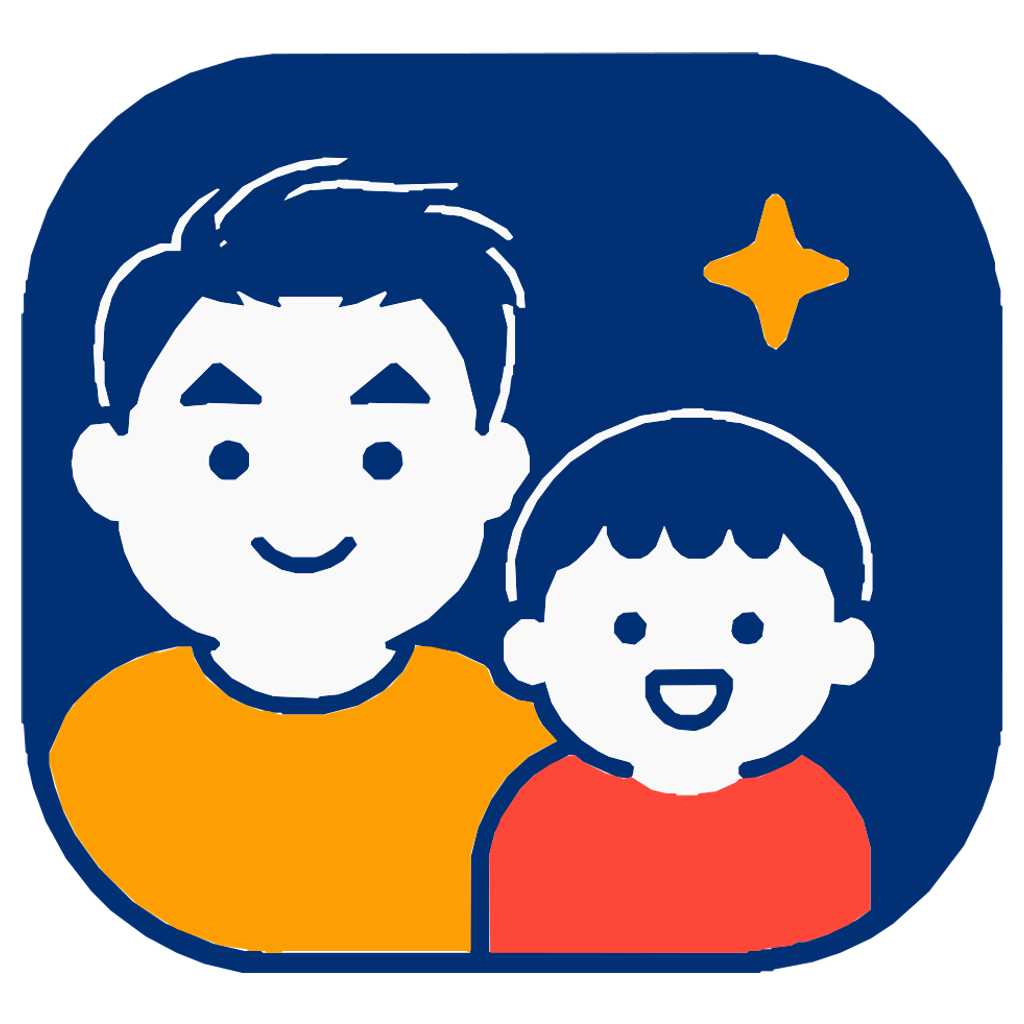
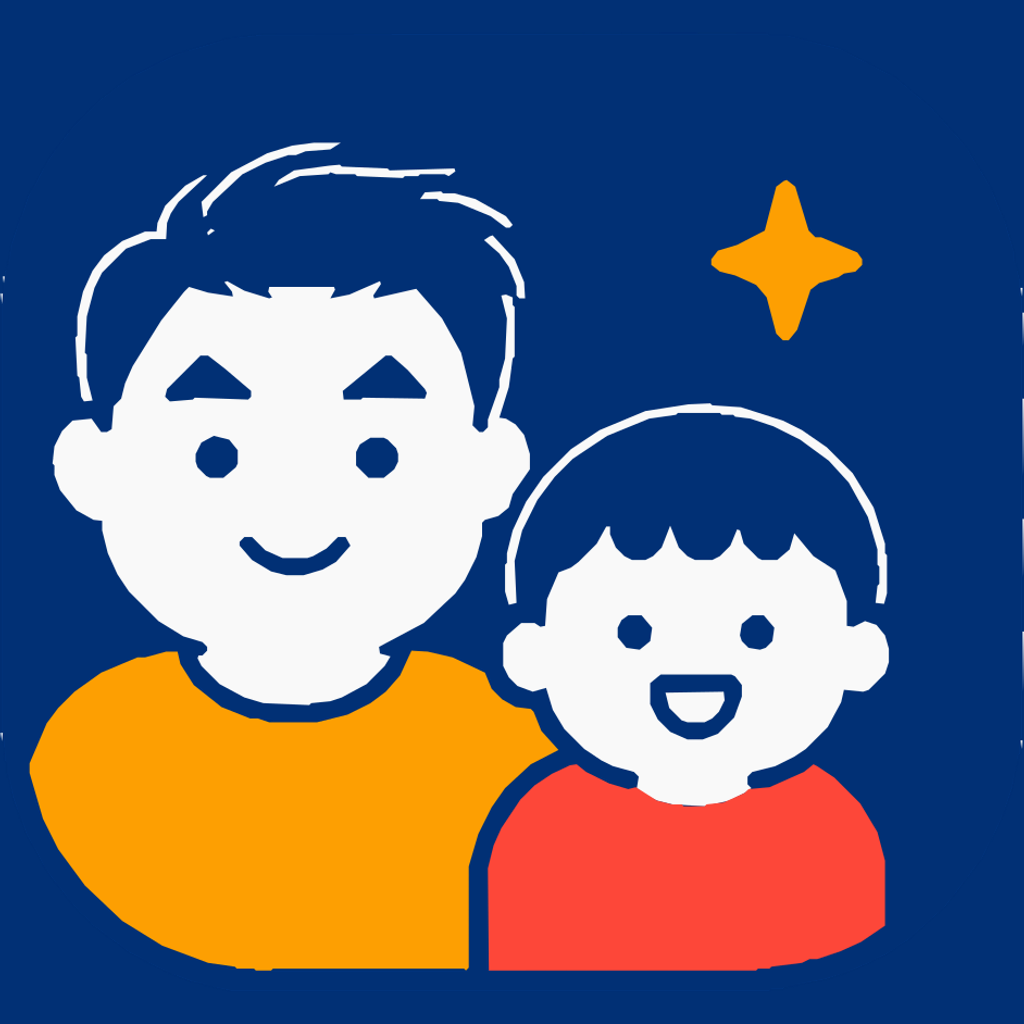
홈 화면 아이콘의 흰 테두리를 없애고 채널 소개 문구를 바꿈
- 아이콘 배경이 흰색이라 휴대폰 홈 화면에 추가하면 아이콘 바깥으로
  흰 테두리가 남았다. iOS·안드로이드가 정사각형을 둥글게 깎으면서
  모서리의 흰 배경이 그대로 보이던 것이다.
  배경을 심벌 타일과 같은 네이비(#013075)로 맞춰 하나로 이어지게 했다.
- 브라우저 탭·북마크에 쓰이는 파비콘은 OS가 깎아주지 않으므로
  직접 모서리를 둥글게 만들었다.
- 채널 소개를 블로그의 실제 성격에 맞게 바꿨다.
  학습 자료 안내가 아니라 웨티와의 일상 기록이다.

diff --git a/config/channels.ts b/config/channels.ts
@@ -13,7 +13,7 @@ export interface WetiChannel {
   id: string;
   /** 채널명 (예: 웨티아빠 네이버 블로그) */
   name: string;
-  /** 방문 이유를 설명하는 한 문장 */
+  /** 이 채널이 어떤 곳인지 설명하는 한 문장 */
   reason: string;
   /** 실제 채널 URL. 확인되지 않았다면 undefined로 두면 자동으로 숨겨진다 */
   url?: string;
@@ -31,7 +31,7 @@ export const channels: WetiChannel[] = [
   {
     id: "blog",
     name: "웨티아빠 네이버 블로그",
-    reason: "아이와 직접 해본 학습법과 자료를 확인해보세요",
+    reason: "아들 웨티와 함께하는 소소한 일상을 소개합니다",
     url: "https://blog.naver.com/wetipapa",
     ctaLabel: "블로그 놀러가기",
     icon: BlogIcon,
@@ -41,7 +41,7 @@ export const channels: WetiChannel[] = [
   {
     id: "threads",
     name: "웨티아빠 Threads",
-    reason: "새로운 게임과 육아·교육 이야기를 가장 먼저 만나보세요",
+    reason: "웨티와의 일상과 새 게임 소식을 가장 빠르게 만나보세요",
     url: "https://www.threads.com/@wetipapa",
     ctaLabel: "Threads 팔로우",
     icon: ThreadsIcon,

diff --git a/components/ConnectSection.tsx b/components/ConnectSection.tsx
@@ -18,7 +18,7 @@ export default function ConnectSection() {
           웨티아빠 더 만나기
         </h2>
         <p className={styles.lead}>
-          웨티아빠가 아이와 직접 만들고 사용한 학습 이야기, 블로그와 Threads에서 계속 만나요.
+          아들 웨티와 함께하는 소소한 일상을 블로그와 Threads에 남기고 있어요.
         </p>
 
         <ul className={styles.list}>
